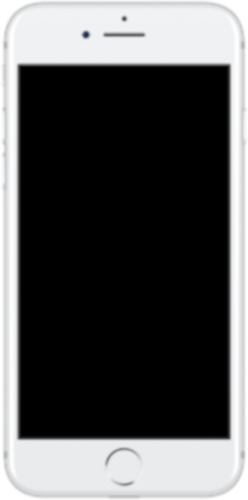
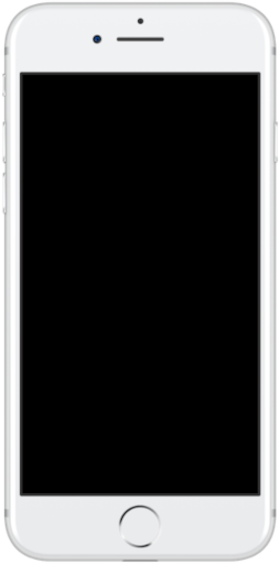
projeto redes sociais

diff --git a/index.html b/index.html
@@ -11,12 +11,12 @@
 <body>
   <main>
     <section id="redessociais">
-      <a href=""  target="tela"> <img src="imagens/logo-home.jpg" alt="Home"></a><br>
-      <a href="" target="tela"><img src="imagens/logo-youtube.jpg" alt="Youtube"></a><br>
-      <a href="" target="tela"> <img src="imagens/logo-github.jpg" alt="Github"></a><br>
-      <a href="" target="tela"> <img src="imagens/logo-facebook.jpg" alt="Facebook"></a><br>
-      <a href="" target="tela"> <img src="imagens/logo-twitter.jpg" alt="Twitter"></a><br>
-      <a href="" target="tela"> <img src="imagens/logo-instagram.jpg" alt="Instagram"></a><br>
+      <a href="home.html"  target="tela"> <img src="imagens/logo-home.jpg" alt="Home"></a><br>
+      <a href="youtube.html" target="tela"><img src="imagens/logo-youtube.jpg" alt="Youtube"></a><br>
+      <a href="github.html" target="tela"> <img src="imagens/logo-github.jpg" alt="Github"></a><br>
+      <a href="facebook.html" target="tela"> <img src="imagens/logo-facebook.jpg" alt="Facebook"></a><br>
+      <a href="twitter.html" target="tela"> <img src="imagens/logo-twitter.jpg" alt="Twitter"></a><br>
+      <a href="instagram.html" target="tela"> <img src="imagens/logo-instagram.jpg" alt="Instagram"></a><br>
     </section>
     <section id="telefone">
       <iframe src="home.html" name="tela" id="tela"  frameborder="0"></iframe>

diff --git a/style.css b/style.css
@@ -30,17 +30,17 @@ section#telefone{
   left: 50%;
   transform: translate(-50%, -50%);
 
- width: 248px;
- height: 500px;
-  background: url('../imagens/frame-iphone2.png') no-repeat;
+ width: 280px;
+ height: 564px;
+  background: url('imagens/frame-iphone2.png') no-repeat;
 }
 
 iframe#tela{
   position: relative;
-  top: 65px;
-  left: 19px;
-  height: 374px;
-  width: 212px;
+  top: 72px;
+  left: 21px;
+  height: 423px;
+  width: 238px;
 }
 
 section#redessociais img{

diff --git a/youtube.html b/youtube.html
@@ -1,0 +1,15 @@
+<!DOCTYPE html>
+<html lang="pt-br">
+<head>
+  <meta charset="UTF-8">
+  <meta http-equiv="X-UA-Compatible" content="IE=edge">
+  <meta name="viewport" content="width=device-width, initial-scale=1.0">
+  <title>Youtube</title>
+  <link rel="stylesheet" href="estilosocial.css">
+   
+</head>
+<body>
+  <img src="imagens/tela-youtube.png" alt="">
+  <a href="https://www.youtube.com/user/cursoemvideo/playlists" target="_blank">Acesse</a>
+</body>
+</html>

diff --git a/github.html b/github.html
@@ -1,0 +1,15 @@
+<!DOCTYPE html>
+<html lang="pt-br">
+<head>
+  <meta charset="UTF-8">
+  <meta http-equiv="X-UA-Compatible" content="IE=edge">
+  <meta name="viewport" content="width=device-width, initial-scale=1.0">
+  <title>Github</title>
+  <link rel="stylesheet" href="estilosocial.css">
+   
+</head>
+<body>
+  <img src="imagens/tela-github.jpg" alt="">
+  <a href="gustavoguanabara.github.io" target="_blank">Acesse</a>
+</body>
+</html>

diff --git a/instagram.html b/instagram.html
@@ -1,0 +1,15 @@
+<!DOCTYPE html>
+<html lang="pt-br">
+<head>
+  <meta charset="UTF-8">
+  <meta http-equiv="X-UA-Compatible" content="IE=edge">
+  <meta name="viewport" content="width=device-width, initial-scale=1.0">
+  <title>Instagram</title>
+  <link rel="stylesheet" href="estilosocial.css">
+   
+</head>
+<body>
+  <img src="imagens/tela-instagram.jpg" alt="">
+  <a href="instagram.com" target="_blank">Acesse</a>
+</body>
+</html>

diff --git a/facebook.html b/facebook.html
@@ -1,0 +1,15 @@
+<!DOCTYPE html>
+<html lang="pt-br">
+<head>
+  <meta charset="UTF-8">
+  <meta http-equiv="X-UA-Compatible" content="IE=edge">
+  <meta name="viewport" content="width=device-width, initial-scale=1.0">
+  <title>Facebook</title>
+  <link rel="stylesheet" href="estilosocial.css">
+   
+</head>
+<body>
+  <img src="imagens/tela-facebook.jpg" alt="">
+  <a href="facebook.com" target="_blank">Acesse</a>
+</body>
+</html>

diff --git a/twitter.html b/twitter.html
@@ -1,0 +1,15 @@
+<!DOCTYPE html>
+<html lang="pt-br">
+<head>
+  <meta charset="UTF-8">
+  <meta http-equiv="X-UA-Compatible" content="IE=edge">
+  <meta name="viewport" content="width=device-width, initial-scale=1.0">
+  <title>Twitter</title>
+  <link rel="stylesheet" href="estilosocial.css">
+   
+</head>
+<body>
+  <img src="imagens/tela-twitter.jpg" alt="">
+  <a href="twitter.com" target="_blank">Acesse</a>
+</body>
+</html>

diff --git a/estilosocial.css b/estilosocial.css
@@ -1,0 +1,27 @@
+@charset "UTF-8";
+
+*{
+  margin: 0px;
+  padding: 0px;
+  font-family: Arial, Helvetica, sans-serif;
+}
+
+
+::-webkit-scrollbar{
+  width: 0px;
+  height: 0px;
+}
+img{
+  width: 100vw;
+}
+a{
+  display: block;
+  padding: 20px;
+  color: white;
+  text-align: center;
+  font-weight: bolder;
+  text-decoration: none;
+}
+a:hover{
+  background-color: red;
+}
